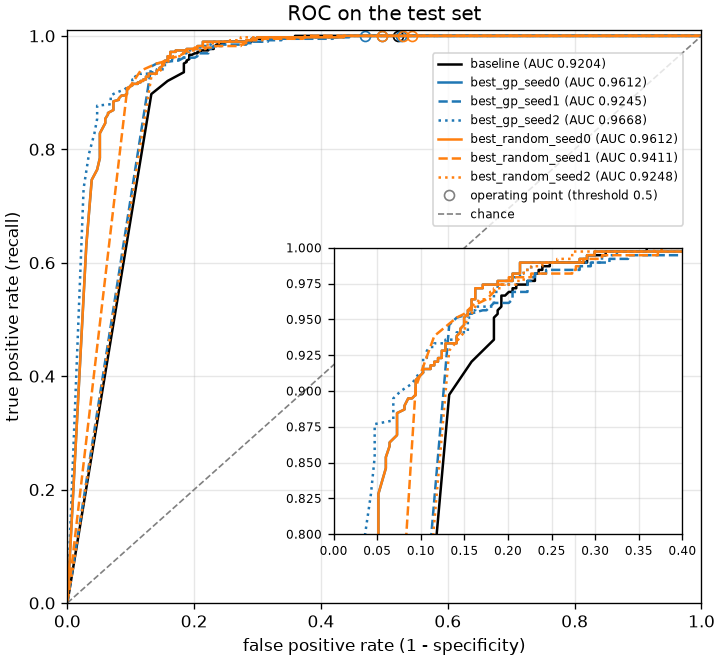
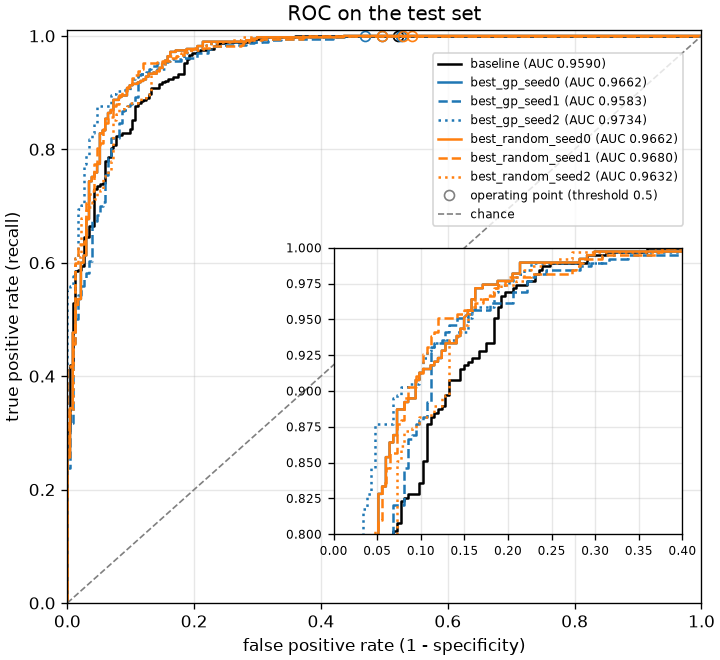
docs: correct test AUC values and drop the learning-rate finding

diff --git a/README.md b/README.md
@@ -245,22 +245,24 @@ every training and HPO decision was fixed. Raw outputs are under `outputs/` (not
 Brackets are 95 % patient-level bootstrap intervals (2,000 replicates); Δ is the paired
 accuracy difference to the baseline in percentage points. Recall is 100 % (390 / 390) for
 every model; all errors are false positives. Precision and F1 are in `model_metrics.csv`.
+AUC and ROC curves are computed from the log-odds of the model output, because confident
+probabilities saturate at 1.0 and would tie.
 
 | Model | Val error (%) | Test accuracy (%) | Δ vs baseline (pp) | Specificity (%) | AUC | McNemar p |
 |---|---|---|---|---|---|---|
-| baseline | 1.15 | 80.4 [76.6, 83.9] | – | 47.9 | 0.920 [0.896, 0.943] | – |
-| GP, seed 0 | 0.77 | 81.4 [77.8, 84.6] | +1.0 [−0.7, +2.7] | 50.4 | 0.961 [0.943, 0.977] | 0.36 |
-| GP, seed 1 | 0.77 | 80.3 [76.4, 83.7] | −0.2 [−1.7, +1.4] | 47.4 | 0.925 [0.900, 0.947] | 1.00 |
-| GP, seed 2 | 0.77 | 82.4 [78.7, 85.6] | +1.9 [+0.2, +3.9] | 53.0 | 0.967 [0.952, 0.980] | 0.058 |
-| Random, seed 0 | 0.77 | 81.4 [77.8, 84.6] | +1.0 [−0.7, +2.7] | 50.4 | 0.961 [0.943, 0.977] | 0.36 |
-| Random, seed 1 | 0.77 | 80.1 [76.3, 83.6] | −0.3 [−1.8, +1.1] | 47.0 | 0.941 [0.919, 0.961] | 0.84 |
-| Random, seed 2 | 0.67 | 79.6 [75.8, 83.1] | −0.8 [−2.3, +0.6] | 45.7 | 0.925 [0.900, 0.948] | 0.38 |
+| baseline | 1.15 | 80.4 [76.6, 83.9] | – | 47.9 | 0.959 [0.943, 0.972] | – |
+| GP, seed 0 | 0.77 | 81.4 [77.8, 84.6] | +1.0 [−0.7, +2.7] | 50.4 | 0.966 [0.951, 0.979] | 0.36 |
+| GP, seed 1 | 0.77 | 80.3 [76.4, 83.7] | −0.2 [−1.7, +1.4] | 47.4 | 0.958 [0.942, 0.973] | 1.00 |
+| GP, seed 2 | 0.77 | 82.4 [78.7, 85.6] | +1.9 [+0.2, +3.9] | 53.0 | 0.973 [0.962, 0.984] | 0.058 |
+| Random, seed 0 | 0.77 | 81.4 [77.8, 84.6] | +1.0 [−0.7, +2.7] | 50.4 | 0.966 [0.951, 0.979] | 0.36 |
+| Random, seed 1 | 0.77 | 80.1 [76.3, 83.6] | −0.3 [−1.8, +1.1] | 47.0 | 0.968 [0.955, 0.980] | 0.84 |
+| Random, seed 2 | 0.67 | 79.6 [75.8, 83.1] | −0.8 [−2.3, +0.6] | 45.7 | 0.963 [0.949, 0.976] | 0.38 |
 
 | Method | Models | Test accuracy (%) | Specificity (%) | F1 (%) | AUC |
 |---|---|---|---|---|---|
-| baseline | 1 | 80.4 | 47.9 | 86.5 | 0.920 |
-| Bayesian optimization (GP) | 3 | 81.4 ± 1.0 | 50.3 ± 2.8 | 87.0 ± 0.6 | 0.951 ± 0.023 |
-| Random Search | 3 | 80.4 ± 0.9 | 47.7 ± 2.4 | 86.4 ± 0.5 | 0.942 ± 0.018 |
+| baseline | 1 | 80.4 | 47.9 | 86.5 | 0.959 |
+| Bayesian optimization (GP) | 3 | 81.4 ± 1.0 | 50.3 ± 2.8 | 87.0 ± 0.6 | 0.966 ± 0.008 |
+| Random Search | 3 | 80.4 ± 0.9 | 47.7 ± 2.4 | 86.4 ± 0.5 | 0.966 ± 0.003 |
 
 ![ROC curves of all models on the test set](docs/figures/roc_test.png)
 
@@ -269,12 +271,12 @@ every model; all errors are false positives. Precision and F1 are in `model_metr
 1. **Large validation–test gap.** About 99 % accuracy on validation drops to 80–82 % on test.
    Every model detects all pneumonia images but labels about half of the normal test images
    as pneumonia (specificity 46–53 %).
-2. **The ranking is good; the fixed threshold does not fit the test data.** AUC is 0.92–0.97,
-   but normal test images get much higher pneumonia probabilities than normal validation
+2. **The ranking is good; the fixed threshold does not fit the test data.** AUC is 0.96–0.97
+   for every model, but normal test images get much higher pneumonia probabilities than normal validation
    images. For the baseline, the median P(pneumonia) of a normal test image is 0.65, and the
    lowest score of any pneumonia test image is 0.97. At the fixed threshold of 0.5 every
    model operates near a false positive rate of 0.5 (circles in the ROC plot), while the
-   curves reach about 95 % recall at a false positive rate of about 0.15. The validation set
+   curves reach 92–96 % recall at a false positive rate of 0.15. The validation set
    comes from the same folder as the training data and shows no such shift, so a threshold
    chosen on validation would not have helped. Choosing one on the test set would be test-set
    tuning, which the protocol forbids
@@ -288,12 +290,9 @@ every model; all errors are false positives. Precision and F1 are in `model_metr
    with the lowest validation error (Random, seed 2) has the lowest test accuracy. GP and
    Random Search differ by one point on average (81.4 ± 1.0 vs 80.4 ± 0.9 %), within the
    seed-to-seed spread, so no difference between the methods is claimed.
-4. **Low-learning-rate models rank better.** Three of the six best models used a learning
-   rate of about 1.5–1.8 × 10⁻⁴: GP seed 0, which is the same model as Random seed 0, and GP
-   seed 2. They reach AUC 0.961–0.967, with intervals at or above the upper end of the
-   baseline's. The three models trained with a learning rate of about 10⁻³ (the baseline,
-   GP seed 1, Random seed 2) stay at 0.920–0.925. Random seed 1 (2.1 × 10⁻⁴) lies in
-   between at 0.941. This is an observation on seven models, not a controlled experiment.
+4. **HPO did not improve the ranking either.** The AUC of all seven models lies between
+   0.958 and 0.973 with overlapping intervals (baseline 0.959 [0.943, 0.972]); the mean AUC
+   of both methods is 0.966.
 
 In short, on this dataset the validation split of the train folder is saturated and does not
 predict test performance. The HPO objective (validation error at a fixed threshold) therefore

diff --git a/docs/deviations_from_interim_report.md b/docs/deviations_from_interim_report.md
@@ -341,12 +341,25 @@ Status legend: **decided**, i.e. implemented; **open**, i.e. to be decided in a 
     comparisons is applied; the per-method summary is the main result.
   - The decision threshold stays at 0.5 (never tuned, D10).
   - The ROC plot also marks each model's operating point at that threshold.
-- **Outcome (2026-11-24, run once):**
+- **Outcome (2026-11-24):**
   - Test accuracy is 79.6–82.4 % for all seven models, against 98.9–99.3 % on validation.
   - Recall is 100 % and specificity 46–53 %: every error is a normal image classified as
-    pneumonia. The AUC is 0.92–0.97.
+    pneumonia. The AUC is 0.958–0.973 for every model, so HPO did not improve the
+    ranking either.
   - No HPO model differs clearly from the baseline in accuracy. The only paired interval
     that excludes zero is GP seed 2 (+1.9 points [+0.2, +3.9]); its McNemar p is 0.058,
     without multiplicity correction.
   - GP 81.4 ± 1.0 % vs Random Search 80.4 ± 0.9 % over three seeds.
   - Full tables and discussion are in the README's Results section.
+- **AUC correction (2026-11-24, same day):** the first report computed AUC and ROC curves
+  from probabilities saved with six decimals. Confident outputs are exactly 1.0 in float32
+  or round to 1.000000 (253–400 of the 624 test images), and these ties lowered the AUC to
+  0.920–0.967 and created a spurious pattern in which low-learning-rate models seemed to rank
+  better. Evaluation now also returns the log-odds (logit of PNEUMONIA minus logit of
+  NORMAL), which do not saturate; AUC, its bootstrap intervals and the ROC curves use them,
+  and the prediction files store them (`logit_pneumonia`). The seven frozen models were
+  evaluated on the test set again to obtain the log-odds; nothing was trained, selected or
+  tuned, and every threshold-based number (accuracy, recall, specificity, McNemar) is
+  unchanged. The first outputs are kept in `outputs/archive/eval_test_rounded_probs/`.
+  Validation AUCs logged during training (history, `val_metrics.json`) were computed from
+  float32 probabilities with the same kind of ties; they were never used for a decision.
